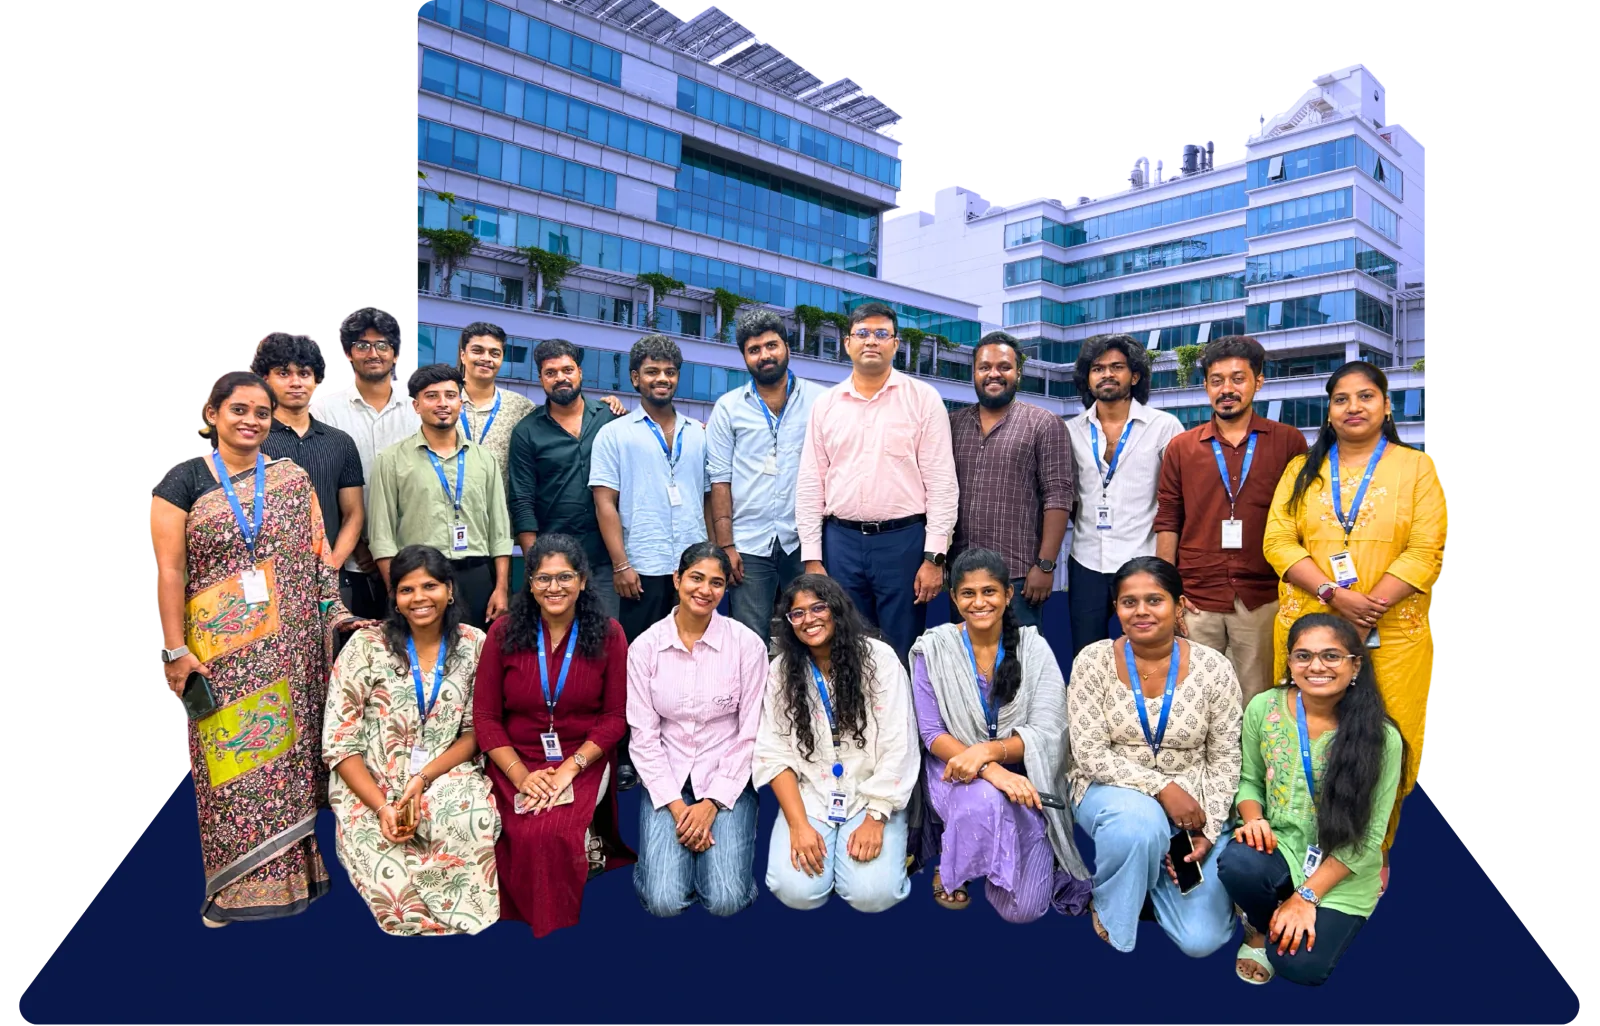
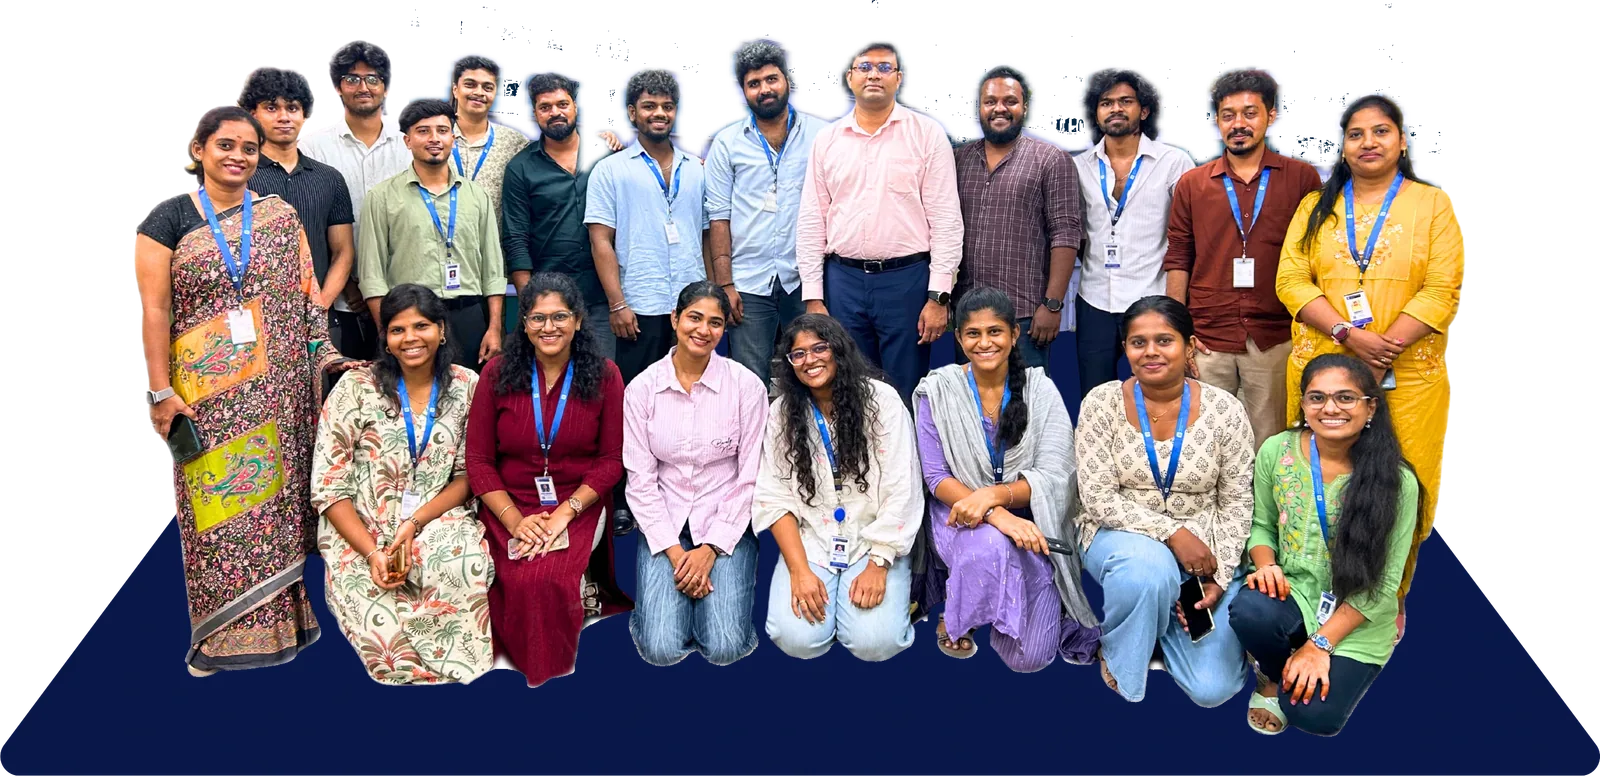
feat: team photo cutout, real SWAYAM Plus LMS link, tighter About gap
- Team photo: buildings removed with a Vision subject mask; people and
  the navy stage remain. Trimmed and re-exported at 1600px.
- SWAYAM Plus LMS half now opens swayam-plus-lms.iitmpravartak.org.in.
- About Us: smaller gap between the copy and the photo.

diff --git a/src/pages/home/subpages/AboutUs.tsx b/src/pages/home/subpages/AboutUs.tsx
@@ -11,7 +11,7 @@ export const AboutUsPage = () => {
     <div className="flex flex-col items-center justify-center max-w-6xl gap-[clamp(2.5rem,6vw,4rem)] px-[clamp(1rem,5vw,3rem)]">
       <div className="flex w-full flex-col items-center gap-[clamp(2.5rem,6vw,4rem)]">
         <SectionHeader pill="About Us" title="Who we are" />
-        <div className="flex flex-col lg:flex-row items-center justify-center gap-[clamp(1.5rem,6vw,4rem)] px-8">
+        <div className="flex flex-col lg:flex-row items-center justify-center gap-[clamp(1rem,2.5vw,2rem)] px-4 sm:px-8">
           <motion.div
             initial={{ opacity: 0, y: 20 }}
             whileInView={{
@@ -45,11 +45,11 @@ export const AboutUsPage = () => {
           >
             <img
               src="/team.webp"
-              alt="The 32Mins team at IIT Madras Research Park"
+              alt="The 32Mins team"
               loading="lazy"
               decoding="async"
               width="1600"
-              height="1026"
+              height="776"
               className="w-full max-w-[min(100%,820px)] lg:w-[clamp(480px,46vw,820px)] h-auto"
             />
           </motion.div>

diff --git a/src/components/ProjectCards.tsx b/src/components/ProjectCards.tsx
@@ -29,8 +29,7 @@ const media_urls = [
     title: "SWAYAM Plus",
     links: [
       { label: "Website", url: "https://swayamplus.education.gov.in/" },
-      // TODO(owner): replace with the SWAYAM Plus LMS address.
-      { label: "LMS", url: "https://swayamplus.education.gov.in/login" },
+      { label: "LMS", url: "https://swayam-plus-lms.iitmpravartak.org.in/" },
     ],
     cover_image: swayamPlusCover,
     tags: ["Full-Stack", "UI/UX", "LMS", "KMS"],
